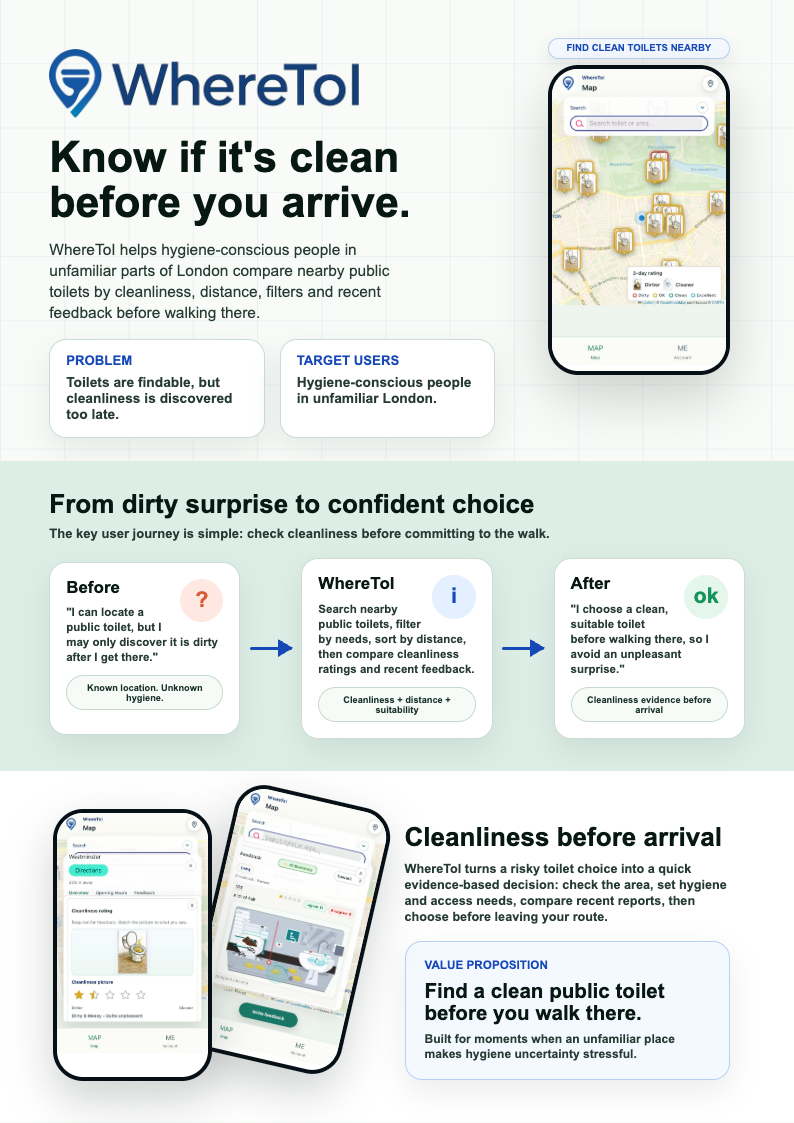
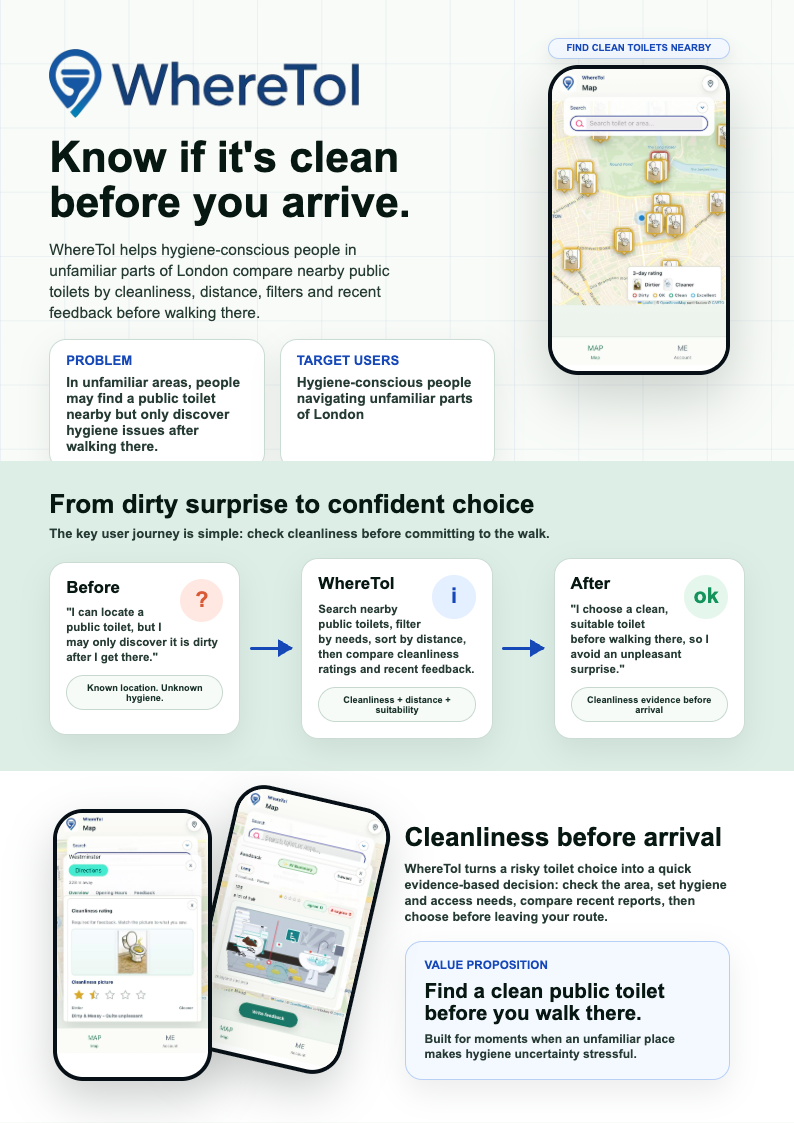
docs: change the wording of problem statement and target users

Changed region(s): [[0.0605, 0.3117, 0.3023, 0.4052], [0.3627, 0.3428, 0.6045, 0.374]]

diff --git a/docs/where-toi-pitch-leaflet.html b/docs/where-toi-pitch-leaflet.html
@@ -642,11 +642,11 @@
       <div class="hero-cards">
         <article class="card mini-card">
           <div class="label">Problem</div>
-          <p>Toilets are findable, but cleanliness is discovered too late.</p>
+          <p>In unfamiliar areas, people may find a public toilet nearby but only discover hygiene issues after walking there.</p>
         </article>
         <article class="card mini-card">
           <div class="label">Target users</div>
-          <p>Hygiene-conscious people in unfamiliar London.</p>
+          <p>Hygiene-conscious people navigating unfamiliar parts of London</p>
         </article>
       </div>
 
